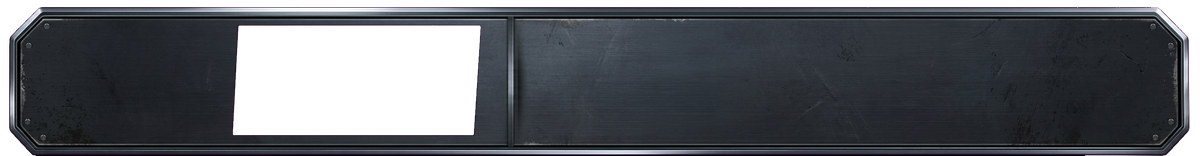
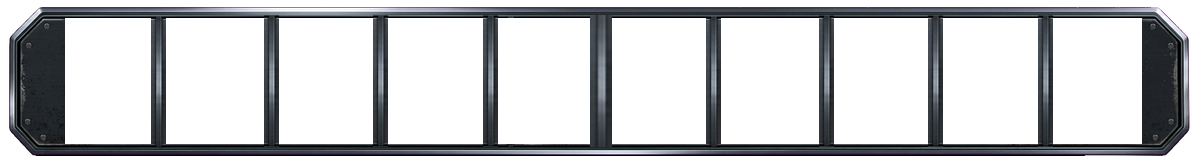
fix yardage strip, add yard lines

diff --git a/index.html b/index.html
@@ -1621,46 +1621,47 @@ class GameScene extends Phaser.Scene {
       layer.removeAll(true);
       this.renderLaneOverlay(idx);
 
-      // Field grid: 2 rows × 4 cols per side, up to 8 cards per side.
-      // slotW = 20% of lane width; cardH derives from frame aspect (~1.38).
-      const slotW  = this.LANE_W * 0.20;
-      const cardH  = slotW * 1.38;
-      const rowGap = 6;
-      const colSlotW = this.LANE_W / 4;
-      const colCenters = [
-        -colSlotW * 1.5, -colSlotW * 0.5,
-        +colSlotW * 0.5, +colSlotW * 1.5
-      ];
+      // Cards are big (42% of lane width) because they overlap — each successive
+      // card is offset 40% right of the previous, so 60% of every card stays
+      // visible. Cost circle (top-left) is preserved because cards fan LEFT→RIGHT;
+      // stat box (bottom-center) is preserved because horizontal offset ≤ 50%.
+      const slotW = this.LANE_W * 0.42;
+      const cardH = slotW * 1.38;
+      const stepX = slotW * 0.40;
+      const rowYOffset = cardH * 0.35;   // 35% of back row peeks past front row
+      const rowXShift  = slotW * 0.20;   // back row staggered to peek between front cards
 
-      // Per-side card zone — sits between the lane modifier (center band) and
-      // the yardage bar (top/bottom edge). Rows centered inside that zone so
-      // padding from both bar and modifier is roughly even.
+      // Front-row anchor: card center sits one half-height outside the modifier
+      // band (75 px) so the modifier medallion stays uncovered.
       const modClear = 75;
-      const barClear = 40;
-      const youZoneCenter = (modClear + (this.FIELD_H/2 - barClear)) / 2;
-      const cpuZoneCenter = ((-this.FIELD_H/2 + barClear) + (-modClear)) / 2;
-      // Card 0-3 sit in the row CLOSER to the modifier ("front line"); 4-7 sit
-      // in the row farther out. Same convention both sides for symmetry.
-      const rowOffset = (cardH + rowGap) / 2;
-      const youFrontY = youZoneCenter - rowOffset;
-      const youBackY  = youZoneCenter + rowOffset;
-      const cpuFrontY = cpuZoneCenter + rowOffset;
-      const cpuBackY  = cpuZoneCenter - rowOffset;
+      const cpuAnchorY = -(modClear + cardH/2);   // card 0 sits at line of scrimmage (top side)
+      const youAnchorY = +(modClear + cardH/2);   // mirror for YOU
 
-      lane.aiCards.forEach((c, i) => {
-        const x = colCenters[i % 4];
-        const y = i < 4 ? cpuFrontY : cpuBackY;
-        const card = buildCard(this, c, slotW, { hidden: !c.revealed });
-        card.x = x; card.y = y;
-        if (c.revealed) this.attachInspect(card, c);
-        layer.add(card);
-      });
+      this._layoutStack(layer, lane.aiCards,  'ai',  slotW, cardH, stepX, rowYOffset, rowXShift, cpuAnchorY);
+      this._layoutStack(layer, lane.youCards, 'you', slotW, cardH, stepX, rowYOffset, rowXShift, youAnchorY);
+      // Drop zones still cover the full lane via lane container.
+    });
+  }
 
-      lane.youCards.forEach((c, i) => {
-        const x = colCenters[i % 4];
-        const y = i < 4 ? youFrontY : youBackY;
+  // Lay out a side's cards as a fanned overlap stack:
+  //   n ≤ 4 → single fanned row centered at anchorY
+  //   n ≥ 5 → cards 0-3 in front row, 4-7 in back row spilling OUTWARD from the
+  //           modifier (CPU back row sits above, YOU back row sits below).
+  // Cards are added to the layer in play order so later cards naturally render
+  // on top (Phaser Containers render children in insert order).
+  _layoutStack(layer, cards, side, slotW, cardH, stepX, rowYOffset, rowXShift, anchorY) {
+    const n = cards.length;
+    if (n === 0) return;
+    const placeRow = (rowCards, rowY, xShift, depthBase) => {
+      const rn = rowCards.length;
+      const rowW = slotW + (rn - 1) * stepX;
+      const startX = -rowW / 2 + slotW / 2 + (xShift || 0);
+      rowCards.forEach((c, i) => {
+        const x = startX + i * stepX;
+        const rot = (i - (rn - 1) / 2) * 0.05;  // ±3° fan
         const card = buildCard(this, c, slotW, { hidden: !c.revealed });
-        card.x = x; card.y = y;
+        card.x = x; card.y = rowY;
+        card.setRotation(rot);
         if (c.pending) {
           card.setAlpha(0.85);
           const pulse = this.add.graphics();
@@ -1672,9 +1673,20 @@ class GameScene extends Phaser.Scene {
         if (c.revealed) this.attachInspect(card, c);
         layer.add(card);
       });
-      // Empty-slot placeholders removed — 48 outlined rects per scene was noise.
-      // Drop zones still cover the full lane regardless.
-    });
+    };
+
+    if (n <= 4) {
+      placeRow(cards, anchorY, 0, 0);
+      return;
+    }
+    // Two-row layout: front row anchored at the line of scrimmage, back row
+    // spills outward (YOU → toward player, CPU → toward top edge).
+    const front = cards.slice(0, 4);
+    const back  = cards.slice(4, 8);
+    const dirMul = (side === 'you') ? 1 : -1;
+    const backY = anchorY + dirMul * rowYOffset;
+    placeRow(front, anchorY, 0, 0);
+    placeRow(back,  backY,   rowXShift, 4);
   }
 
   attachInspect(cardCont, cardData) {